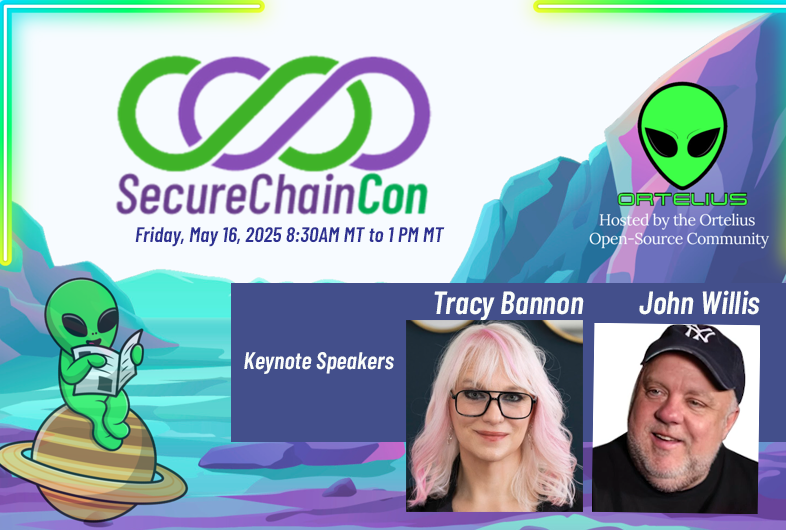
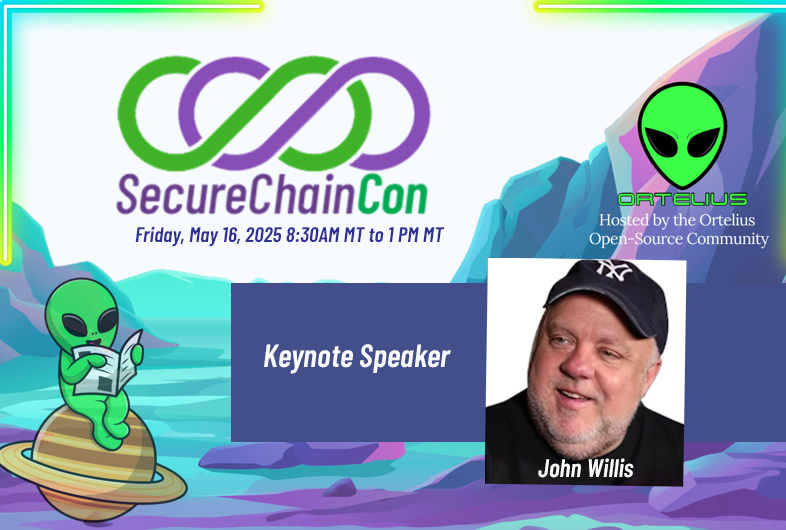
Signed-off-by: tracyragan <tracy@deployhub.com>

Changed region(s): [[0.3053, 0.483, 0.9771, 0.9962]]

diff --git a/content/en/blog/news/SecureChainCon 2025.md b/content/en/blog/news/SecureChainCon 2025.md
@@ -16,16 +16,13 @@ author: Tracy Ragan
 
 
 {{< blocks/section color=white >}}
-<h2 class="text-center">Keynote Speakers:</h2>
-<h2 class="text-center">Tracy Bannon & John Willis</h2>
+<h2 class="text-center">Keynote Speaker:</h2>
+<h2 class="text-center">John Willis</h2>
 <hr>
 
 {{< blocks/feature_dual >}}
 
-<div class="col-center">
-<img src="/images/tracyb.png" alt="Tracy Bannon" height="400px" width="300px" />
-</div>
-<br>
+
 <div class="col-center">
 <img src="/images/johnwillis.png" alt="John Willis" height="400px" width="300px" />
 </div>
@@ -34,12 +31,7 @@ author: Tracy Ragan
 {{< /blocks/feature_dual >}}
 {{< blocks/feature_dual >}}
 
-<h3 class="text-left">#NoHobbyists – What’s Really Needed to Shift CyberSecurity?</h3>
 
-Cybersecurity in software development is often treated as an afterthought, left to developers who must self-educate and experiment in their spare time. The #NoHobbyists movement challenges this status quo, advocating for a fundamental shift where cybersecurity is not a side project but a core discipline, fully integrated throughout the Software Development Lifecycle (SDLC). This presentation outlines a holistic approach to embedding security across people, process, technology, and culture. Instead of merely shifting security “left” in the SDLC, the proposal argues for shifting security everywhere, making it an inherent responsibility for all stakeholders, from developers to executives. Key strategies include the adoption of the Secure Software Development Framework (SSDF), threat modeling as a collaborative practice, and leveraging industry best practices such as OWASP, NIST SP 800-218, and secure coding standards. [@tracylbannon](https://www.linkedin.com/in/tracylbannon/) 
-
-<br>
-<br>
 <h3 class="text-left">AI-Powered Code Parsing and Semantic Analysis for DevOps Pipelines</h3>
 
 As software development ecosystems grow increasingly complex, the need for intelligent DevOps automation in script analysis and dependency management becomes critical. Join Jon Willis as he explores cutting-edge tools and techniques that leverage AI-driven code parsing and semantic analysis to enhance DevOps workflows. He will discuss the application of Large Language Models (LLMs) such as GPT-4, CodeBERT, and OpenAI Codex in parsing infrastructure and automation scripts, including Jenkinsfile, Dockerfile, Makefile, GitHub Actions, and Terraform. These models facilitate the identification of dependency installations (e.g., apt-get install, pip install, npm install) and pinpoint update points within scripts. [@Botchagalupe](https://www.linkedin.com/in/johnwillisatlanta/) 
@@ -61,19 +53,19 @@ All times in Mountain Time
 
 8:30 Beer and Donuts - Recognition Awards presented by Steve Taylor
 
-9:00 - 9:30  Keynote with Tracy Bannon
+9:00 - 9:45  Keynote with John Willis
 
-9:30 - 10:00 Keynote with John Willis
+9:45 - 10:00 Break
 
 ### Sessions: 
 
-<strong>10:15 - 10:45 Shifting Security Left—And Up, Down, and Across the Organization,</strong>
+<strong>10:00 - 10:30 Shifting Security Left—And Up, Down, and Across the Organization,</strong>
 
 [Jude Wellington](https://www.linkedin.com/in/judewellington/) and [Kate Scarcella](https://www.linkedin.com/in/katescarcellaconnected/) Panel Discussion
 
 Security doesn't start and end in the development environment. While secure coding practices are essential, true organizational security is built on a culture that extends beyond the IDE—into business decisions, leadership priorities, and everyday behaviors across all teams. In this panel session, we will share strategies and real-world examples of how organizations can move beyond a “security as an afterthought” mindset and instead embed security principles into their business process.
 
-<strong>10:45-11:15  Hidden in the Code: Malicious Code Scanning for Open Source Packages,</strong>
+<strong>10:30-11:00  Hidden in the Code: Malicious Code Scanning for Open Source Packages,</strong>
 
 [Abhisek Datta](https://www.linkedin.com/in/abh1sek/), Co-Founder, SafeDep
 
@@ -84,19 +76,19 @@ Open Source package distributed with typosquatting and starjacking. Project X is
 {{< blocks/feature_dual >}}
 
 
-<strong>11:15-11:45 Security Chaos Engineering to Avoid Payments Ransom Gangs,</strong>
+<strong>11:00-11:30 Security Chaos Engineering to Avoid Payments Ransom Gangs,</strong>
 
 [Yury Niño Roa](https://www.linkedin.com/in/yurynino/), Cloud Application Modernization Engineer, Google 
 
 Data breaches are growing in size and frequency, affecting even well-secured infrastructures. Cyberattacks are inevitable, and in some cases, victims must pay to recover their data. Experts say many organizations fail not because of weak security, but because they never test how long data recovery takes. That’s why tabletop exercises, red/blue team drills, and security gamedays are critical. Security Chaos Engineering is a discipline that deliberately injects false positives into production to test how systems respond to security failures. This talk will cover why Security Chaos Engineering is essential today, how it differs from penetration testing, and how organizations can use it to drill breach response plans through regular gamedays.
 
-<strong>11:45 - 12:15 Unlocking Insights from SBOMs: Beyond Generation to Actionable Analytics,</strong> 
+<strong>11:30 - 12:00 Unlocking Insights from SBOMs: Beyond Generation to Actionable Analytics,</strong> 
 
 [Daniel Nebenzahl](https://www.linkedin.com/in/danny-daniel-nebenzahl-78705a151/), Co-founder & CTO Scribe Security
 
 Generating Software Bills of Materials (SBOMs) has gained widespread attention—but generating is just the beginning. These seemingly mundane, machine-readable documents hold valuable insights waiting to be unlocked. In this talk, we'll explore practical and impactful use cases of SBOM analytics, from strategic decision-making tools for CISOs to actionable, hands-on utilities for practitioners. Join us to discover how to turn SBOMs into strategic assets that strengthen your organization's software security posture.
 
-<strong>12:15 - 12:30 Closing Comments</strong>
+<strong>12:00 Closing Comments</strong>
 Tracy Ragan DeployHub and Ortelius Community Organizer 
 
 {{< /blocks/feature_dual >}}

diff --git a/content/en/_index.md b/content/en/_index.md
@@ -191,18 +191,11 @@ Get started with Ortelius using the free SaaS version. Take a quick tutorial and
 Welcome to SecureChainCon, the premier online micro-conference for DevOps and Security professionals, proudly hosted by the Ortelius open-source community!
 Get ready for a half-day of engaging sessions and invaluable learning designed to keep you ahead in the fast-paced world of software security and DevOps automation. Our lineup of expert speakers from top organizations will share their insights, best practices, and real-world case studies on seamlessly integrating security into DevOps workflows.
 
-KeyNotes: 
-- [Tracy Bannon, Mitre](https://www.linkedin.com/in/tracylbannon/) "#NoHobbyists – What’s Really Needed to Shift CyberSecurity?"
-
-Cybersecurity in software development is often treated as an afterthought, left to developers who must self-educate and experiment in their spare time. The #NoHobbyists movement challenges this status quo, advocating for a fundamental shift where cybersecurity is not a side project but a core discipline, fully integrated throughout the Software Development Lifecycle (SDLC).
-This presentation outlines a holistic approach to embedding security across people, process, technology, and culture. Instead of merely shifting security “left” in the SDLC, the proposal argues for shifting security everywhere, making it an inherent responsibility for all stakeholders, from developers to executives. Key strategies include the adoption of the Secure Software Development Framework (SSDF), threat modeling as a collaborative practice, and leveraging industry best practices such as OWASP, NIST SP 800-218, and secure coding standards.
+KeyNote: 
 
 - [John Willis, Botchagalupe](https://www.linkedin.com/in/johnwillisatlanta/) "AI-Powered Code Parsing and Semantic Analysis for DevOps Pipelines"
 
 As software development ecosystems grow increasingly complex, the need for intelligent DevOps automation in script analysis and dependency management becomes critical. Join Jon Willis as he explores cutting-edge tools and techniques that leverage AI-driven code parsing and semantic analysis to enhance DevOps workflows. He will discuss the application of Large Language Models (LLMs) such as GPT-4, CodeBERT, and OpenAI Codex in parsing infrastructure and automation scripts, including Jenkinsfile, Dockerfile, Makefile, GitHub Actions, and Terraform. These models facilitate the identification of dependency installations (e.g., apt-get install, pip install, npm install) and pinpoint update points within scripts.
-
-
-
 
 
 

diff --git a/content/en/events/_index.md b/content/en/events/_index.md
@@ -96,15 +96,10 @@ Join us on May 16th for this dynamic online knowledge exchange and take your Dev
 {{< blocks/feature_dual >}}
 
 <div style="text-align:center;width:100%;margin-top:80px">
-<h2 class="text-center">Keynotes</h2>
+<h2 class="text-center">Keynote</h2>
 </div>
 <div style="text-align:left;width:100%;margin-top:80px">
 
-<h2 class="text-left">Tracy Bannon
-<br>
-#NoHobbyists – What’s Really Needed to Shift CyberSecurity?</h2>
-
-Cybersecurity in software development is often treated as an afterthought, left to developers who must self-educate and experiment in their spare time. The #NoHobbyists movement challenges this status quo, advocating for a fundamental shift where cybersecurity is not a side project but a core discipline, fully integrated throughout the Software Development Lifecycle (SDLC). This presentation outlines a holistic approach to embedding security across people, process, technology, and culture. Instead of merely shifting security “left” in the SDLC, the proposal argues for shifting security everywhere, making it an inherent responsibility for all stakeholders, from developers to executives. Key strategies include the adoption of the Secure Software Development Framework (SSDF), threat modeling as a collaborative practice, and leveraging industry best practices such as OWASP, NIST SP 800-218, and secure coding standards. [@tracylbannon](https://www.linkedin.com/in/tracylbannon/) 
 
 <h2 class="text-left">John Willis 
 <br>AI-Powered Code Parsing and Semantic Analysis for DevOps Pipelines</h2>
